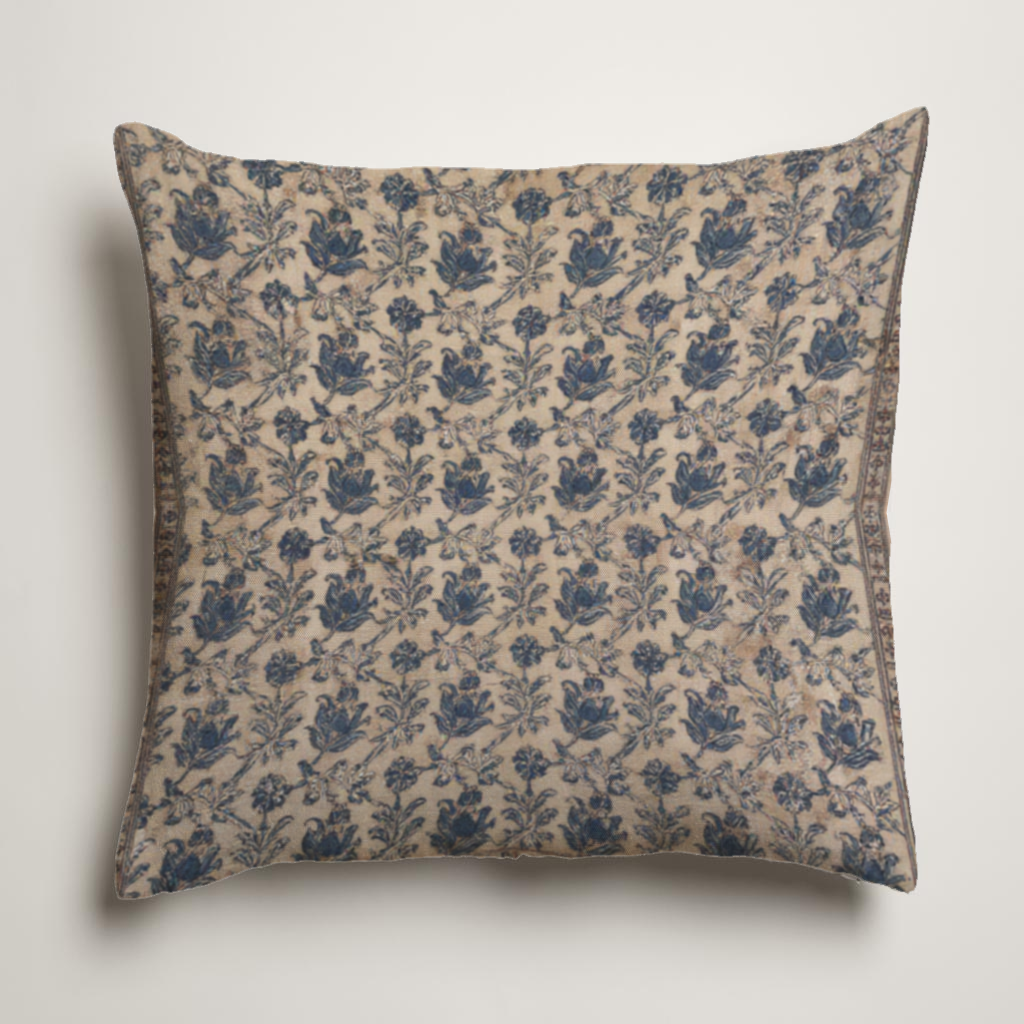
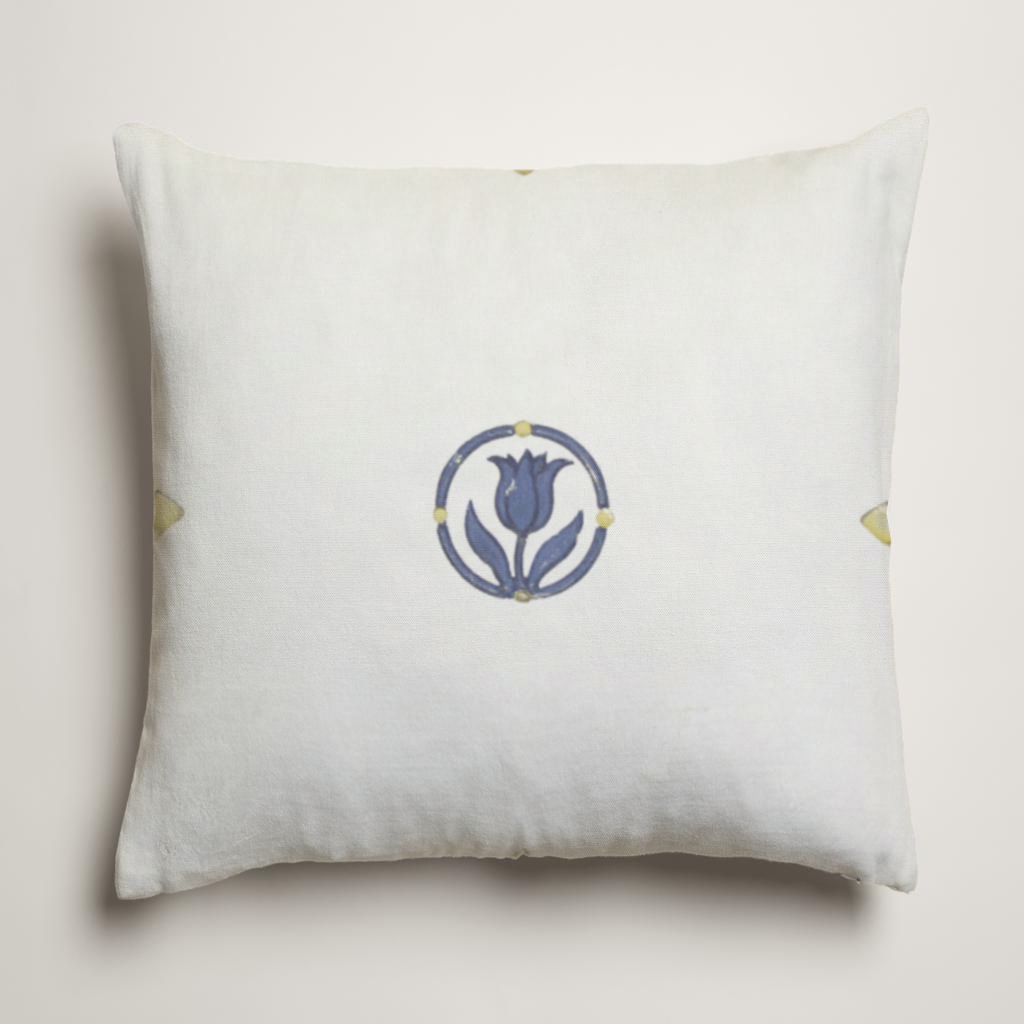
Sharpen palette: vivid cobalt / white / lemon İznik artwork
- brief palette now 'vivid cobalt blue, clean bright white, lemon-yellow
  accent' + 'crisp saturated colors like glazed tile'
- v1 regenerated: blue-and-white İznik tile grid, lemon accents, medallion
- v2 regenerated: sparse minimal composition honoring 'calm home,
  minimal pattern, no lettering' — white field, single cobalt tulip

diff --git a/src/state.js b/src/state.js
@@ -14,8 +14,8 @@ const FRIEND_NAMES = {
   sam: 'Sam',
 };
 
-const PALETTE = ['cobalt blue', 'warm ivory', 'a small lemon accent'];
-const STYLE = 'Turkish İznik ceramic-tile motifs — stylized tulips, thin geometric border, hand-painted feel';
+const PALETTE = ['vivid cobalt blue', 'clean bright white', 'a small lemon-yellow accent'];
+const STYLE = 'Turkish İznik ceramic-tile motifs — stylized tulips, thin geometric border, crisp saturated colors like glazed tile';
 
 function now() {
   return new Date().toISOString();
